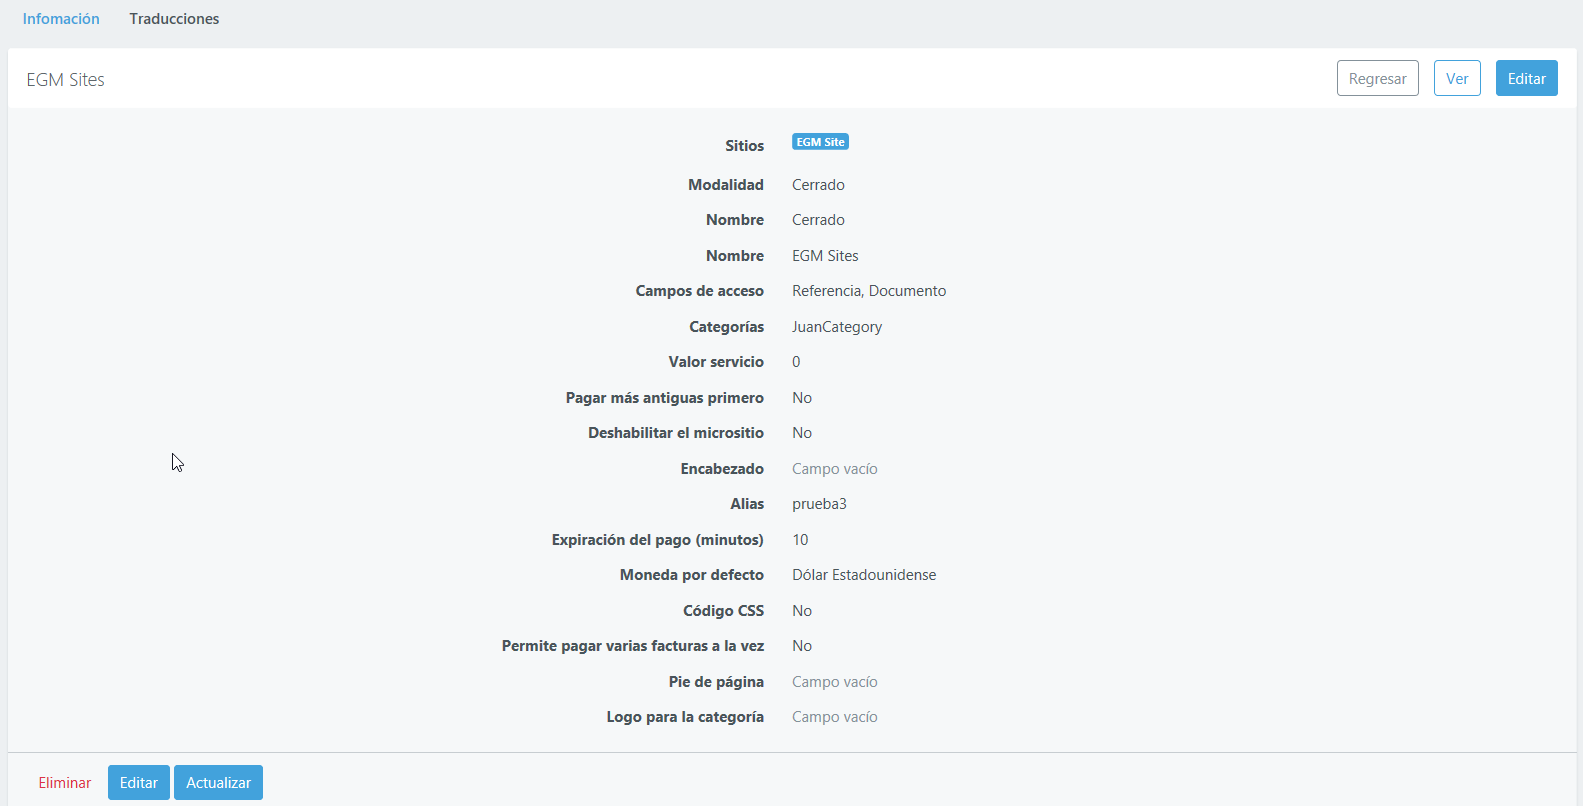
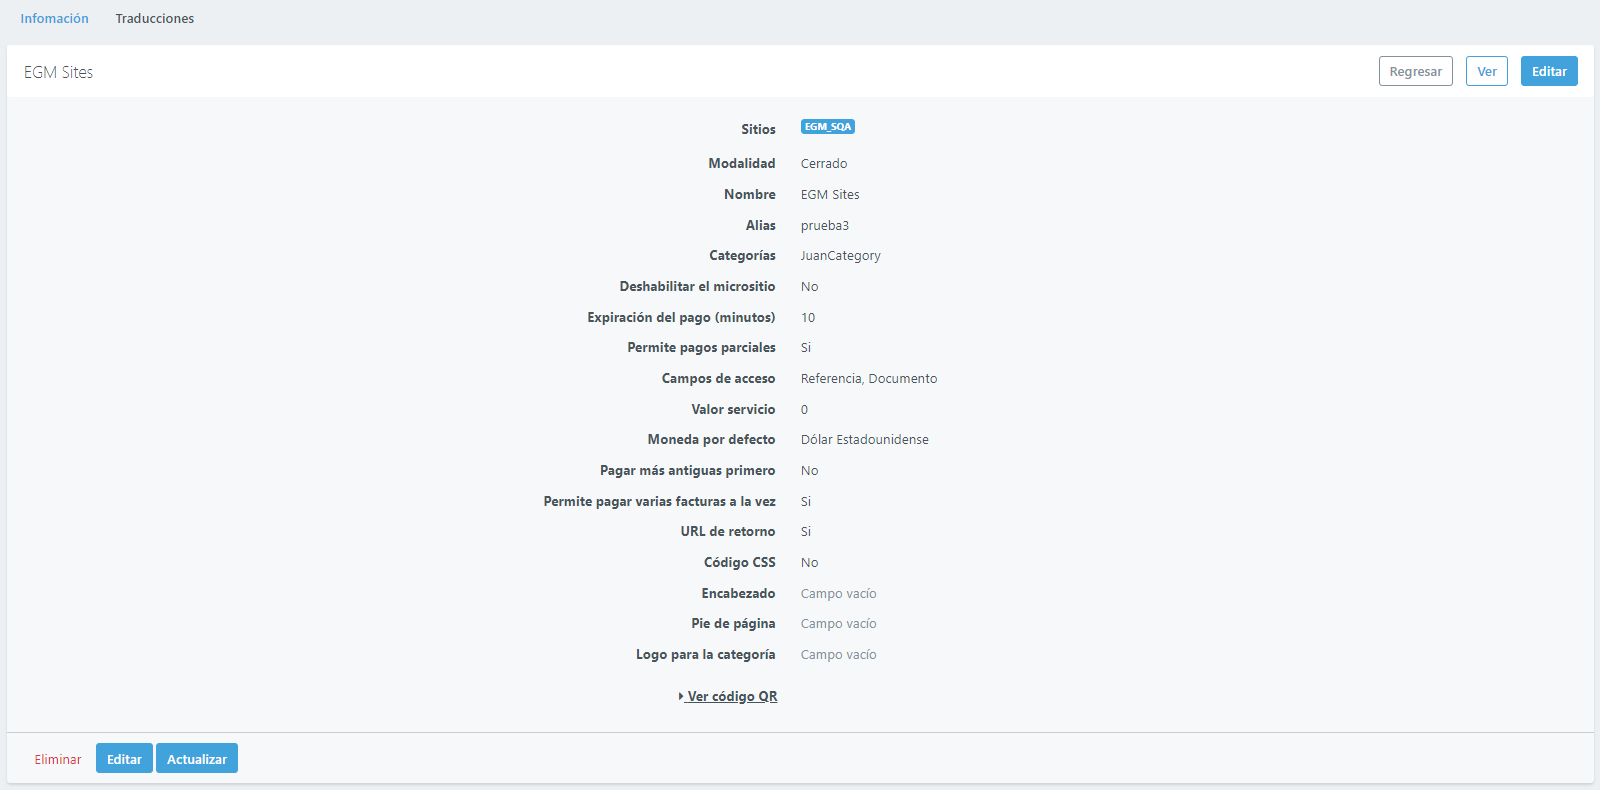
compartir QR

diff --git a/docs/administrator_role/resources.md b/docs/administrator_role/resources.md
@@ -372,6 +372,8 @@ Cuando se selecciona se ejecuta un detalle que muestra los datos que dependen de
 
 ![microsites](../../images_folder/administrator/resources/Microsites/detailMicrosites.png)
 
+Desde este detalle se puede **Ver código QR** dónde puedes copiar la imagen del código QR y compartirla para que se conecten al micrositio y puedan ingresar a consultar los pendientes de pago y posteriormente realizar el proceso transaccional.
+
 #### Crear un nuevo campo (additional data) en un micrositio abierto
 
 Los micrositios abiertos tienen una particularidad importante dentro del sistema y es que permiten definir y diseñar nuevos tipos de campos haciendo de esta forma este tipo de micrositios los más dinámicos del sistema.
